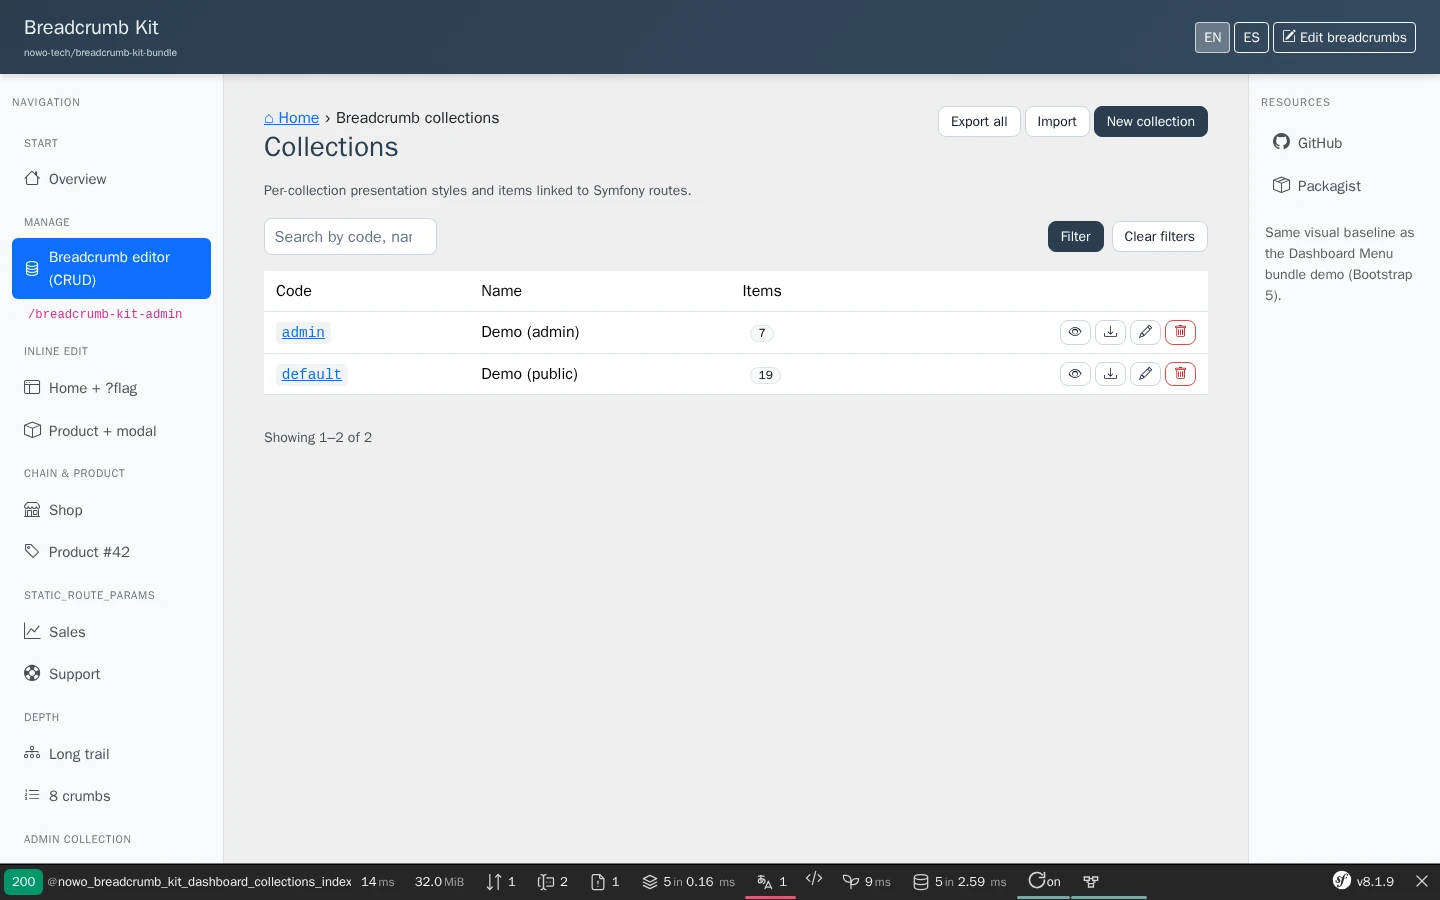
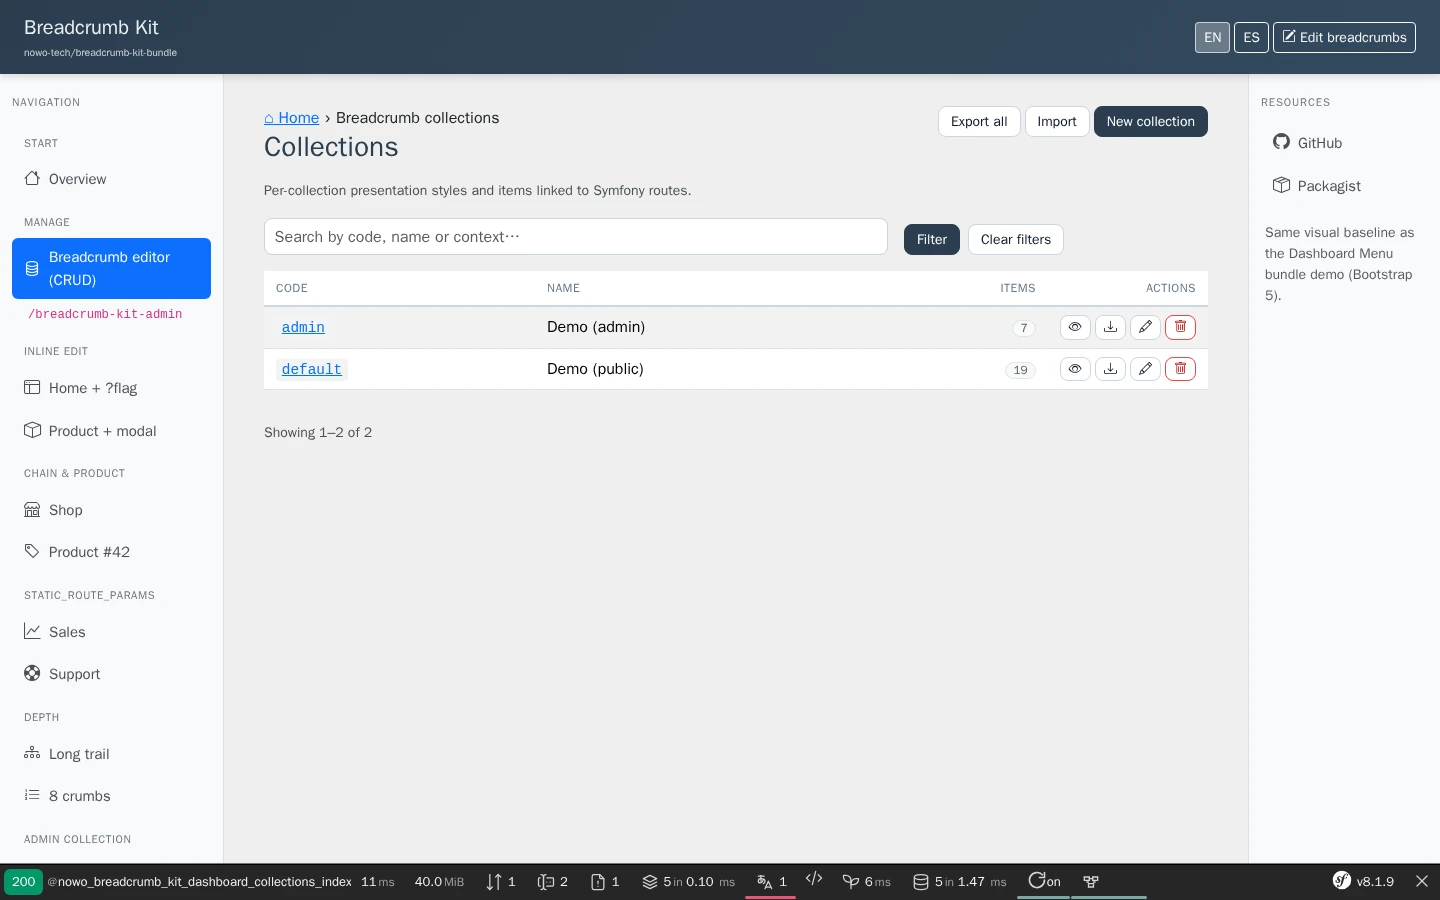
docs: changelog, upgrading and re-captured screenshots for UiKit 2.2 (REQ-DEMO-013)

diff --git a/docs/CHANGELOG.md b/docs/CHANGELOG.md
@@ -49,6 +49,34 @@ and this project adheres to [Semantic Versioning](https://semver.org/spec/v2.0.0
 
 ## [Unreleased]
 
+### Changed
+
+- Requires `nowo-tech/ui-kit-bundle` **^2.2** (default-theme polish: table header hierarchy, striped rows, filter row
+  on a grid, subtle badges, muted help text in the dialogs). See [UPGRADING](UPGRADING.md#unreleased).
+- Dashboard form dialogs are UiKit 2.2 remote dialogs: the New / Edit / Collection styles actions carry
+  `Action::dialogId` and the full-page form URL (`data-nowo-ui-dialog-src`), `js/nowo-ui-dialog.js` fetches the form
+  (the controllers answer an `X-Requested-With` GET, as well as `?_partial=1`, with the form partial) and
+  `js/dashboard.js` only shows the loading text, sets the dialog title from the form and keeps submit-once. On a failed
+  request the opener now navigates to the full-page form (was: an error text in the dialog).
+- Dashboard page headers set `PageHeader::breadcrumbsMode` `auto` (`DashboardPages::BREADCRUMBS_MODE`): the
+  BreadcrumbKit trail configured for the dashboard routes, else the dashboard's own trail (UiKit 2.2 falls back to it
+  when the kit trail is empty).
+
+### Removed
+
+- The "← Collections" / "← Items" header actions of the collection form, item form, items list and import pages
+  (2.7 workaround for a missing way back): the page-header trail is always there with UiKit 2.2.
+
+### Deprecated
+
+- `DashboardPages::dialogOpener()` (the `data-bk-dialog-url` / `?_partial=1` opener attributes): use
+  `Action::$dialogId` with the form URL. `js/dashboard.js` still loads such openers until 3.0.
+
+### Demo
+
+- The host layout prints the UiKit runtimes through the UiKit `scripts` partial (the hand-kept list lacked `modal`,
+  `tabs` and `theme`).
+
 ## [2.7.0] - 2026-10-18
 
 Dashboard pages on the UiKit 2.1 standard page contract (REQ-UI-003): list, form and confirm scaffolds, UiKit dialogs with no-JS fallbacks, front trail theme slots; dashboard deletes work again; deprecated `dashboard.*` keys mapped to `web_ui.*`. See [UPGRADING](UPGRADING.md#to-270).

diff --git a/docs/UPGRADING.md b/docs/UPGRADING.md
@@ -50,6 +50,21 @@
 
 ## Unreleased
 
+Requires UiKit **^2.2** (`composer require nowo-tech/ui-kit-bundle:^2.2`). No configuration change. What hosts may
+notice:
+
+- **Way back**: the "← Collections" / "← Items" header actions are gone; the page header trail (the BreadcrumbKit
+  trail you configured for the dashboard routes, else Collections › code › page) leads back.
+- **Form dialogs**: openers are UiKit remote-dialog links (`data-nowo-ui-dialog-open` + `data-nowo-ui-dialog-src` =
+  the full-page form URL) instead of `data-bk-dialog-url="…?_partial=1"`. The dialog body carries
+  `data-nowo-ui-dialog-body`. Host layouts must load UiKit's `nowo-ui-dialog.js` (2.2 `scripts` partial) — they
+  already did for the 2.7 dialogs. The new / edit routes now return the form partial for any GET with
+  `X-Requested-With: XMLHttpRequest` (as for `?_partial=1`): a host script that fetched those pages over XHR and
+  expected the full page must drop that header.
+- Host templates that still print `DashboardPages::dialogOpener()` attributes keep working (deprecated, removed in 3.0).
+- UiKit 2.2 default theme: small uppercase table headers, striped rows, the search filter as a grid row, subtle badges,
+  muted help text (UiKit UPGRADING "Template contract (2.2)").
+
 ## To 2.7.0
 
 From **2.6.0**:
